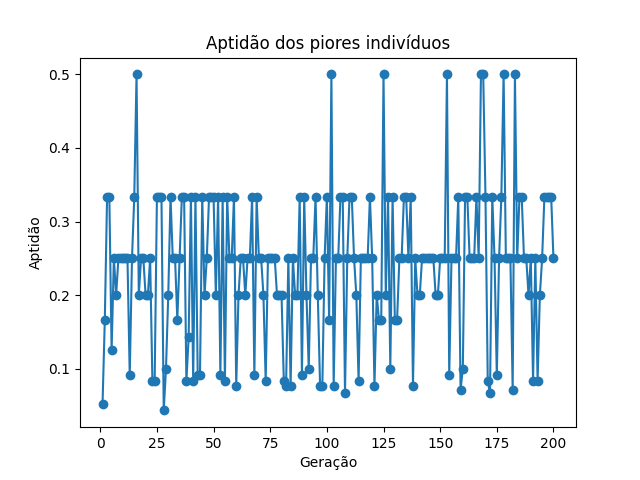
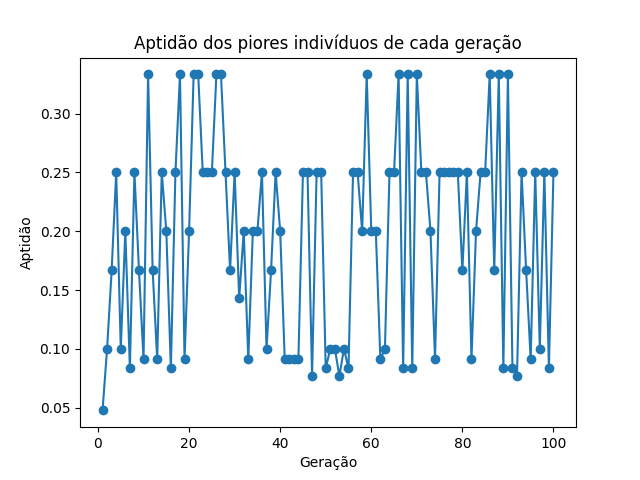
Fixing the "selection_of_survivors" method.

diff --git a/algorithm/graphics.py b/algorithm/graphics.py
@@ -25,8 +25,8 @@ class Graphics:
         print("PIOR INDIVÍDUO (VARIAÇÃO): %f - %f" % (min(self.low_fitness_individuals),
                                                       max(self.low_fitness_individuals)))
 
-        self.show_graphic(axis_x, self.low_fitness_individuals, "Aptidão dos piores indivíduos", "Geração", "Aptidão",
-                          './figures/low_fitness_individuals.png')
+        self.show_graphic(axis_x, self.low_fitness_individuals, "Aptidão dos piores indivíduos de cada geração",
+                          "Geração", "Aptidão", './figures/low_fitness_individuals.png')
 
     @staticmethod
     def show_graphic(axis_x, axis_y, title, x_label, y_label, filename):

diff --git a/algorithm/genetic_algorithm.py b/algorithm/genetic_algorithm.py
@@ -65,7 +65,11 @@ class GeneticAlgorithm:
         resulting_population = Population(size=0)
         # Selecionando 99 indivíduos (POPULATION_SIZE - 1) usando o algoritmo da roleta
         for i in range(POPULATION_SIZE - 1):
-            resulting_population.individuals.append(self.roulette_wheel_selection())
+            random_individual = self.roulette_wheel_selection()
+            resulting_population.individuals.append(random_individual)
+
+            self.population.individuals.remove(random_individual)
+            self.recalculate_fitness()
 
         # Adicionando o indivíduo mais apto da população
         resulting_population.individuals.append(self.get_best_individual())

diff --git a/models/lesson.py b/models/lesson.py
@@ -14,6 +14,13 @@ class Lesson(Base):
     teacher = relationship('Teacher', lazy='subquery')
     subject = relationship('Subject', lazy='subquery')
 
+    def __eq__(self, other):
+        if not isinstance(other, Lesson):
+            return NotImplemented
+
+        if other is not None:
+            return self.id == other.id
+
     def __str__(self):
         return "Lesson %d: (%s, %s, %s, %s, %d)" % (self.id, self.subject.code, self.subject.name, self.teacher.name,
                                                     self.semester, self.subject.lessons_per_week)

diff --git a/main.py b/main.py
@@ -77,7 +77,7 @@ while generation_number < GENERATIONS_NUMBER:
 end = time.time()
 
 print("TEMPO DE EXECUÇÃO %f" % (end - start))
-
+print("\n")
 
 graphics = Graphics(average_fitness=average_fitness, low_fitness_individuals=low_fitness_individuals)
 
@@ -86,7 +86,6 @@ graphics.show_average_individuals_low_fitness()
 
 
 # Melhor indivíduo de todas as gerações
-print("\n")
 print_timetable(best_individual)
 print("\nAPTIDÃO DO MELHOR INDIVÍDUO: %.4f" % best_individual.fitness)
 

diff --git a/models/evaluation.py b/models/evaluation.py
@@ -11,6 +11,9 @@ class Evaluation:
         self.individual = individual
         self.fitness = -1
 
+    def __eq__(self, other):
+        return self.individual == other.individual
+
     def calculate_fitness(self):
         """
         :return: 1/((summation[x, p=1](ap + vp + up + lp)) + (ch * k)) -> quantidade de infrações do indivíduo

diff --git a/settings.py b/settings.py
@@ -3,7 +3,7 @@ from sqlalchemy.ext.declarative import declarative_base
 
 SQLALCHEMY_URI = "mysql://root@localhost:3306/timetable?charset=utf8"
 POPULATION_SIZE = 100
-GENERATIONS_NUMBER = 200
+GENERATIONS_NUMBER = 100
 TOTAL_PERIODS = 2
 LESSONS_PER_DAY = 3
 LESSON_HOUR = 2

diff --git a/population.py b/population.py
@@ -15,6 +15,9 @@ class Population:
 
         self.initialize()
 
+    def __eq__(self, other):
+        return self.individuals == other.individuals
+
     @staticmethod
     def get_lesson_of_day(lesson_list):
         lessons_of_day = [None] * LESSONS_PER_DAY
